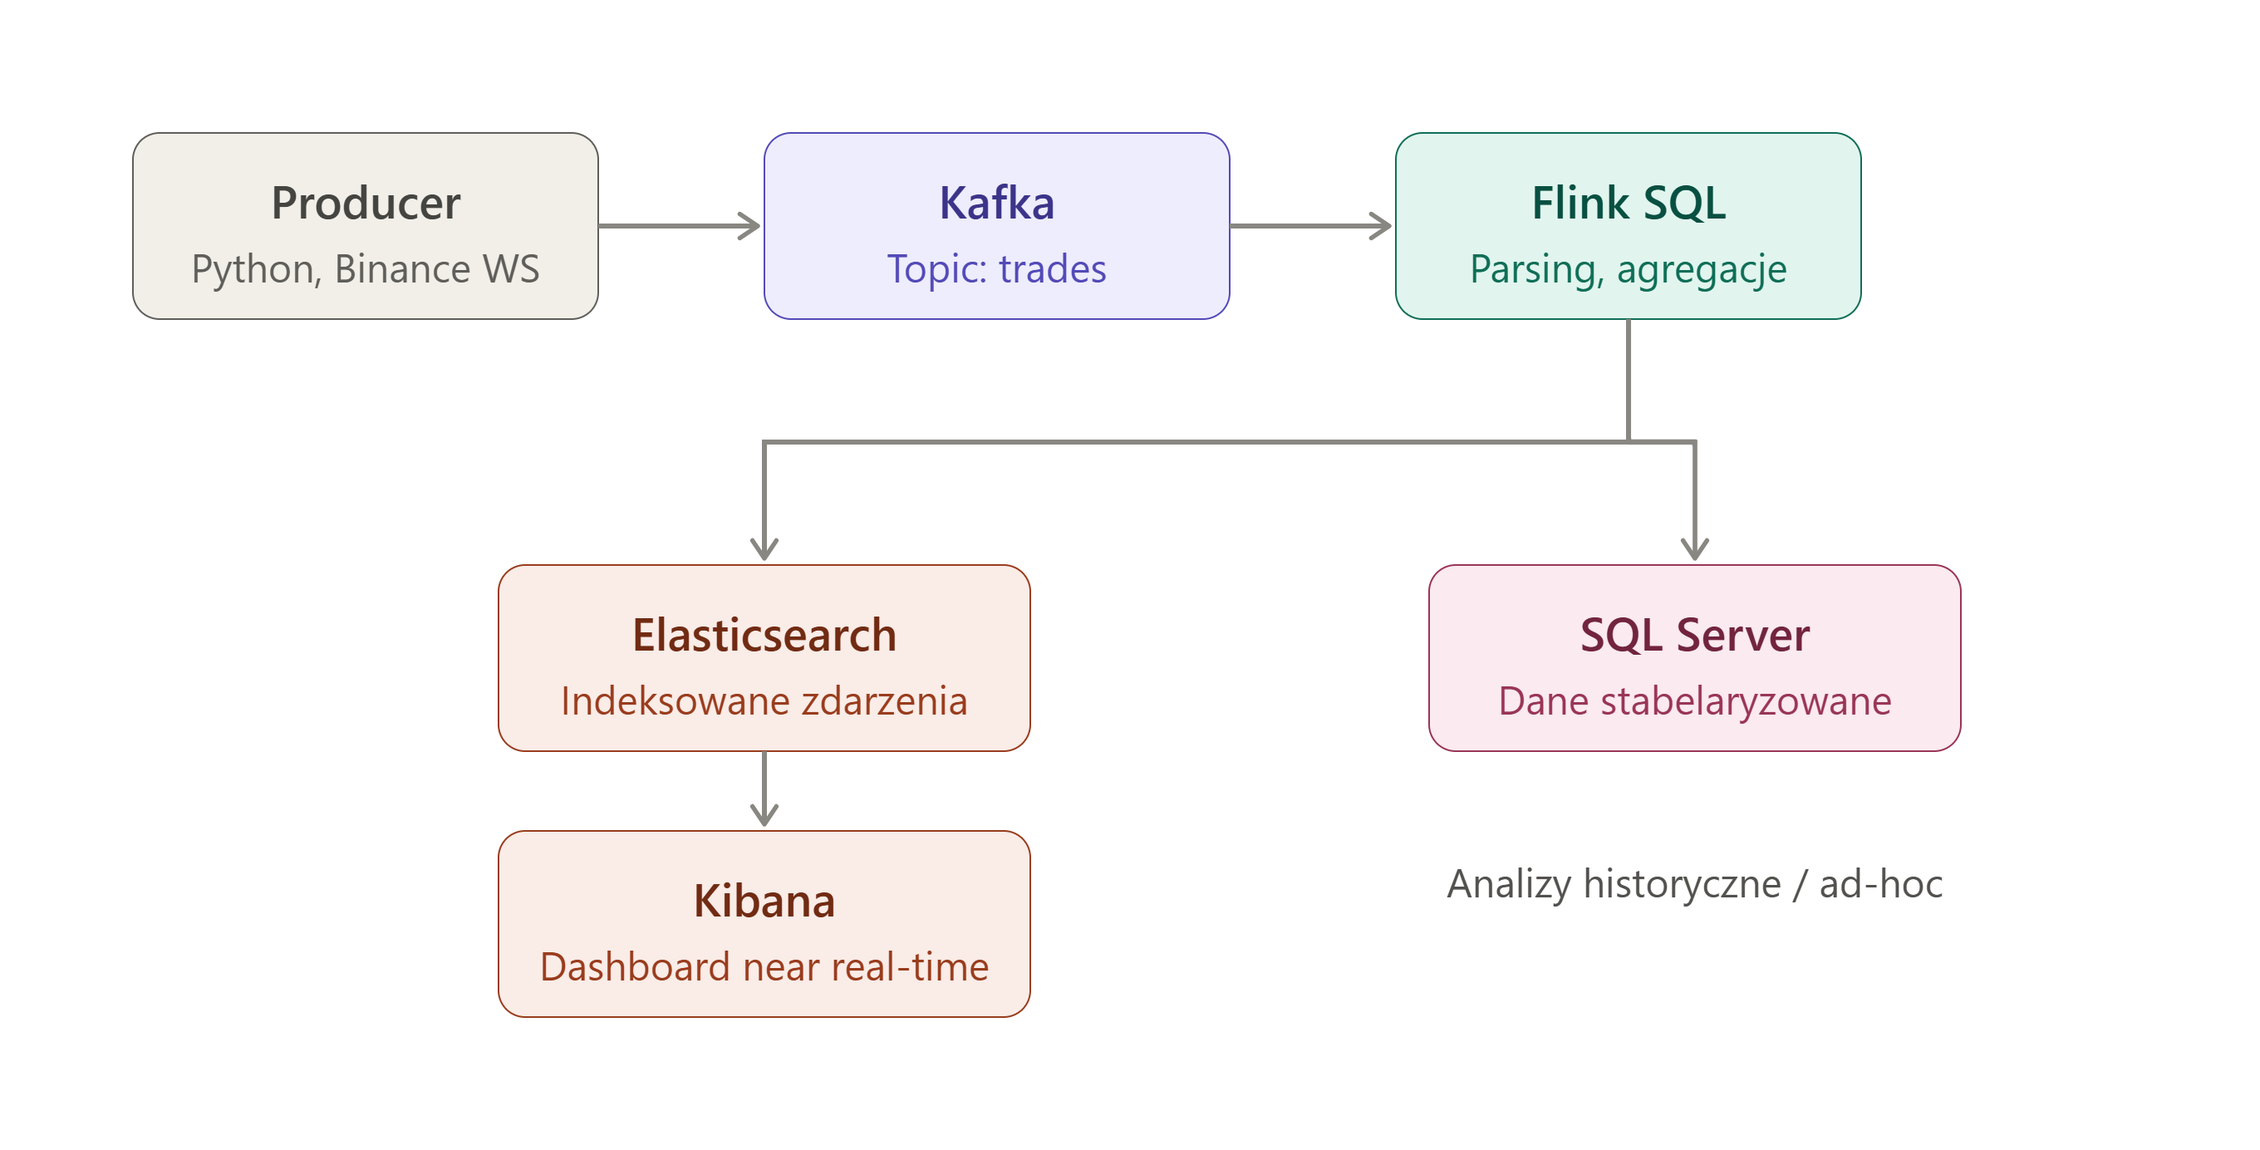
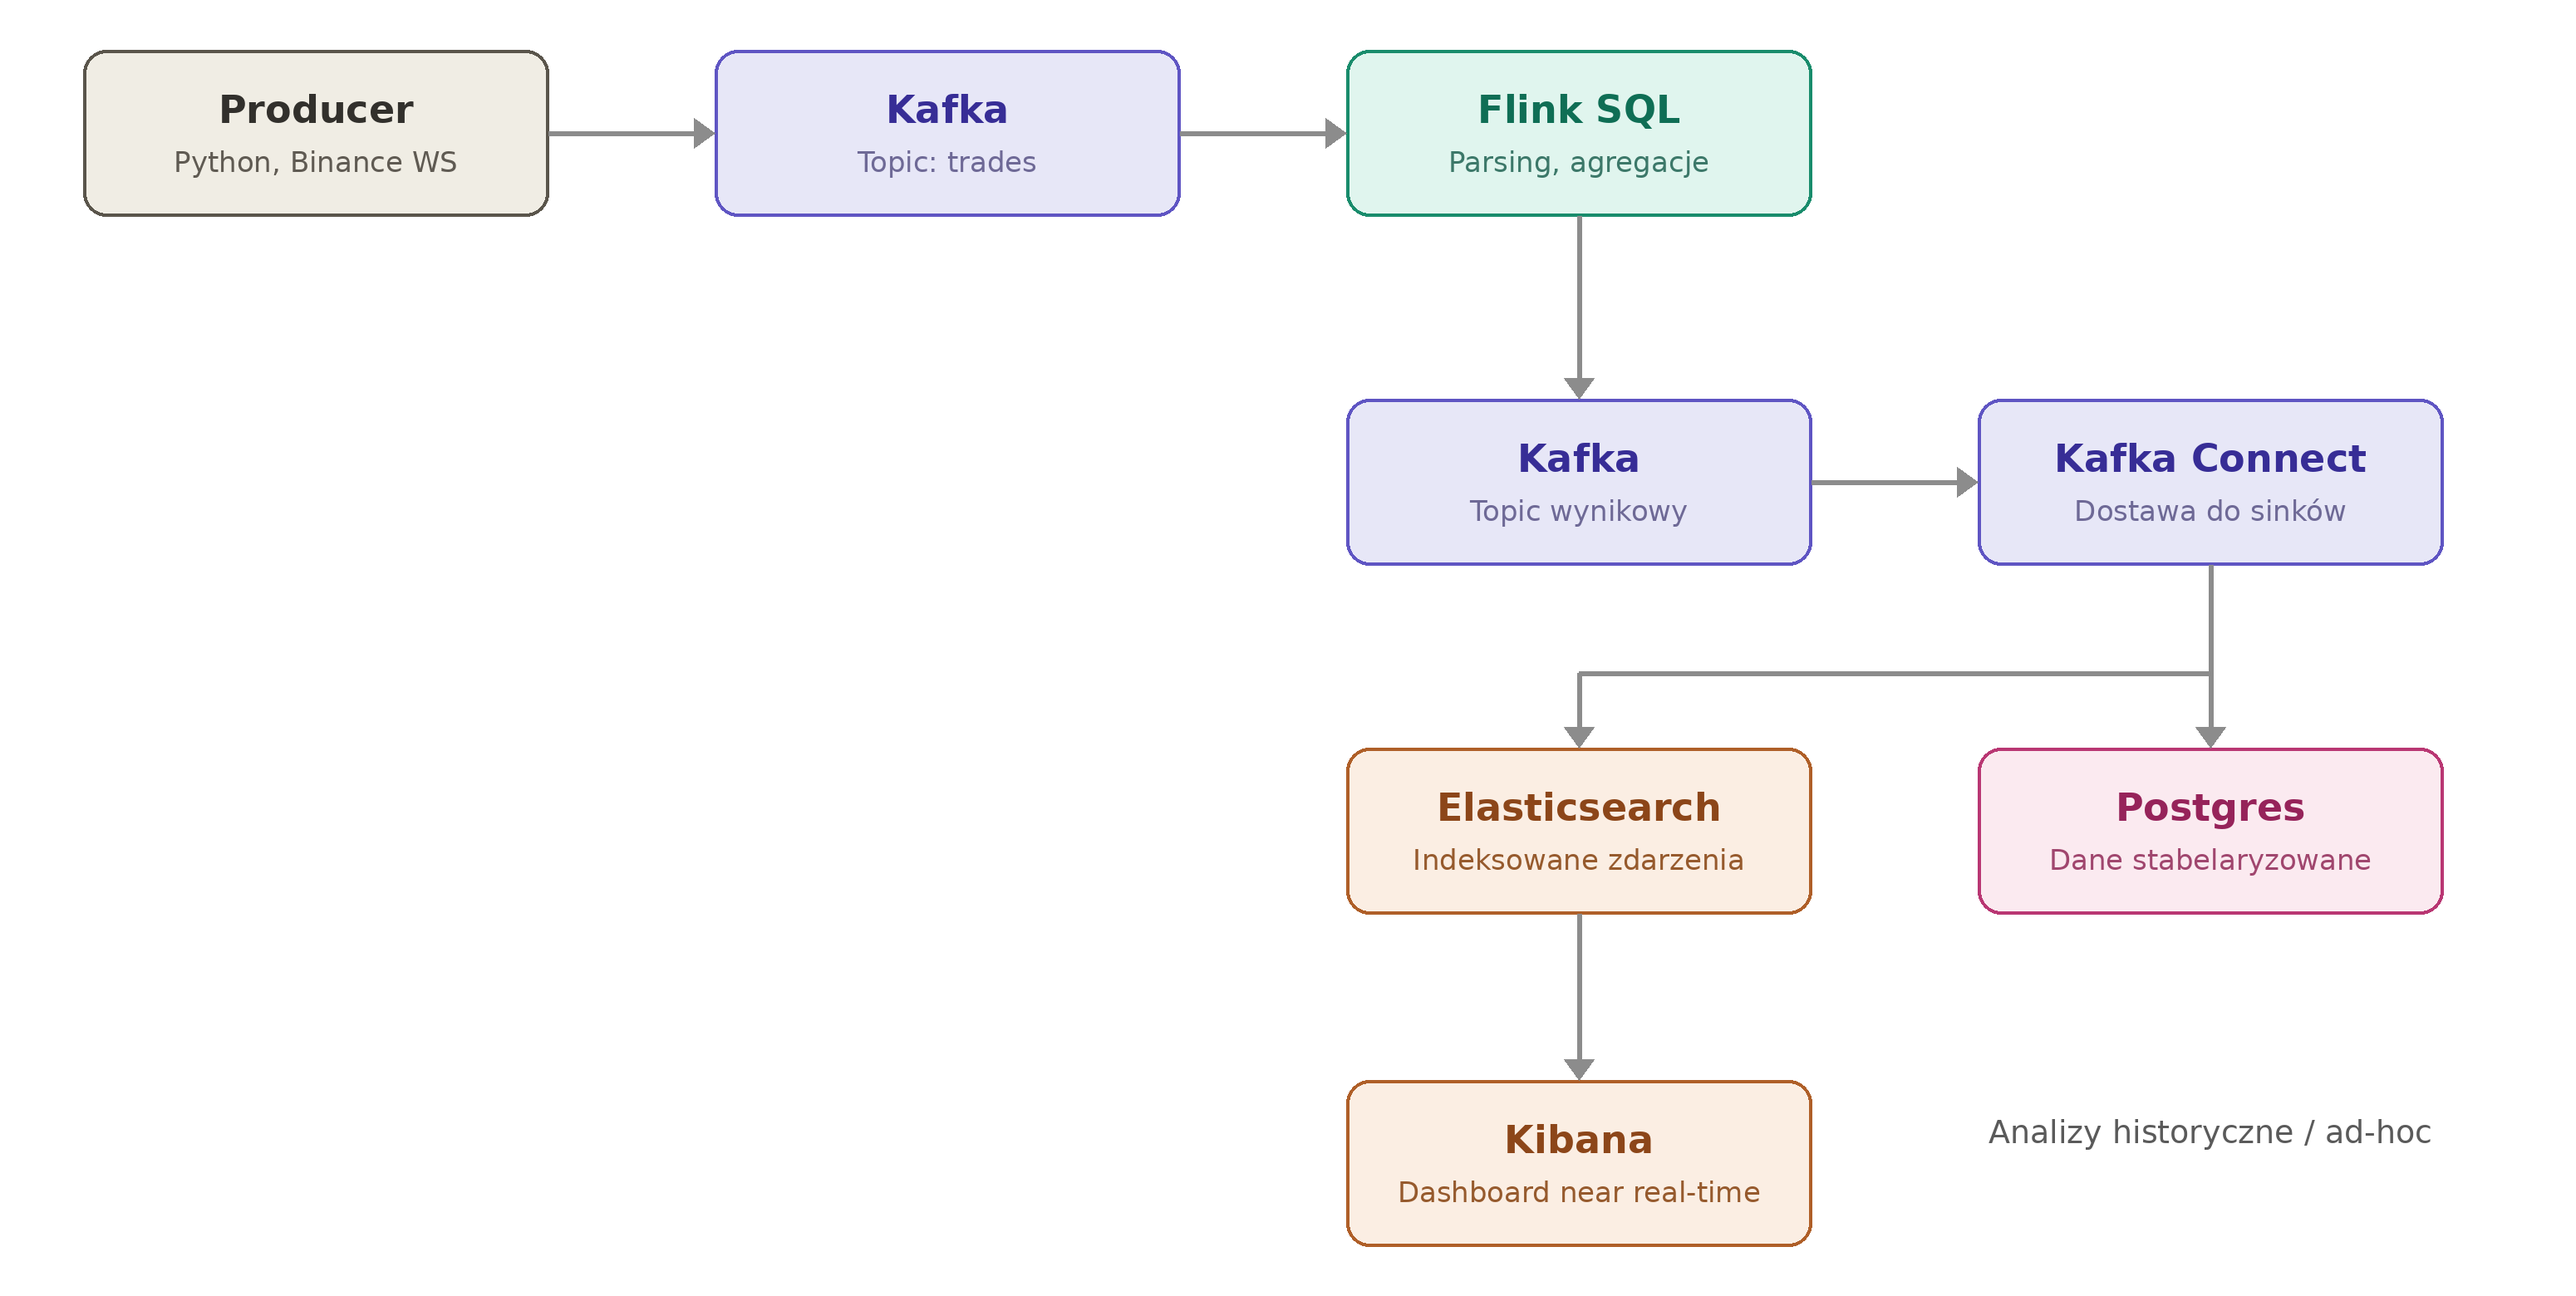
feat: add Jupyter+PyFlink notebook, move Elasticsearch delivery to Kafka Connect
- Add jupyter service (Dockerfile.jupyter, docker-compose.yml) for running
  Flink SQL interactively via a %%sql cell magic against the existing
  session cluster. apache-flink==2.2.1 (matches the cluster), JDK 21 for
  PyFlink's local py4j gateway, Kafka connector jar mirrored into
  pyflink/lib for client-side query planning.
- jupyter_startup/00-flink-setup.py: IPython startup script that connects
  a TableEnvironment to the remote jobmanager and registers %%sql, so
  notebooks need no boilerplate.
- Drop Flink's direct Elasticsearch sink (Dockerfile.flink,
  Dockerfile.jupyter): the official Flink SQL connector is only
  maintained up to Elasticsearch 7.x and fails (NullPointerException
  parsing bulk responses) against 8.x/9.x even via ES's own compatibility
  mode - verified directly, not assumed. Flink now writes results to an
  output Kafka topic; delivery to Elasticsearch/Postgres moves to Kafka
  Connect (not added yet, tracked as follow-up).
- Update README.md, CLAUDE.md and pipeline_architecture.png for this
  delivery architecture, and fix stale "SQL Server" references (stack
  has used Postgres for a while).
- .gitignore: ignore Jupyter's .ipynb_checkpoints and .Trash-* dirs.

Claude-Session: https://claude.ai/code/session_01NoZu199SfThDGf38gu9rRP

diff --git a/jupyter_startup/00-flink-setup.py b/jupyter_startup/00-flink-setup.py
@@ -1,0 +1,13 @@
+from pyflink.table import EnvironmentSettings, TableEnvironment
+from IPython.core.magic import register_cell_magic
+
+table_env = TableEnvironment.create(EnvironmentSettings.in_streaming_mode())
+table_env.get_config().set("execution.target", "remote")
+table_env.get_config().set("jobmanager.rpc.address", "jobmanager")
+table_env.get_config().set("jobmanager.rpc.port", "6123")
+table_env.get_config().set("parallelism.default", "1")
+
+
+@register_cell_magic
+def sql(line, cell):
+    table_env.execute_sql(cell).print()

diff --git a/CLAUDE.md b/CLAUDE.md
@@ -22,10 +22,12 @@ pipeline'u samodzielnie.
 
 ```
 Producer (Python, Binance WebSocket)
-    → Kafka (3 brokery, KRaft)
+    → Kafka (3 brokery, KRaft) — topic wejściowy (surowe trades)
     → Flink SQL (parsing, tabelaryzacja, agregacje)
+    → Kafka — topic wyjściowy (dane przetworzone)
+    → Kafka Connect
         → Elasticsearch → Kibana (dashboard near real-time)
-        → SQL Server / Postgres (dane stabelaryzowane, analizy historyczne)
+        → Postgres (dane stabelaryzowane, analizy historyczne)
 ```
 
 Całość w Docker Compose, jeden plik dla całego stacku.
@@ -45,9 +47,11 @@ Całość w Docker Compose, jeden plik dla całego stacku.
 | Producent | Python | 3.12.7 (przez pyenv) |
 | Message broker | Apache Kafka (KRaft, 3 brokery) | 4.3.1 |
 | UI do Kafki | Kafbat UI | v1.5.0 |
-| Przetwarzanie strumieniowe | Flink SQL (PyFlink) | TBD |
+| Przetwarzanie strumieniowe | Flink SQL (PyFlink) | 2.2.1 |
+| Notebook do Flink SQL | JupyterLab + PyFlink | apache-flink==2.2.1 |
+| Dostawa do sinków | Kafka Connect | TBD |
 | Baza relacyjna | PostgreSQL | 16.10 |
-| Wyszukiwanie / dashboard | Elasticsearch + Kibana | TBD |
+| Wyszukiwanie / dashboard | Elasticsearch + Kibana | 9.5.2 |
 | Konteneryzacja | Docker Compose | — |
 
 ## KRYTYCZNE ZASADY PRACY — PRZECZYTAJ PRZED KAŻDĄ SESJĄ
@@ -98,7 +102,7 @@ Poniższe zasady są nadrzędne wobec zwykłej pomocności:
   `feat: add kafka producer for binance trade stream`
 - **Branch główny:** `main` — powinien zawsze być w stanie działającym
 - **Wolumeny Docker:** named volumes dla danych baz (Postgres, Kafka,
-  SQL Server), nie bind mounty — unika problemów z uprawnieniami plików
+  Elasticsearch), nie bind mounty — unika problemów z uprawnieniami plików
 - **Środowisko Python:** `pyenv local` (wersja projektu) + `venv`
   (izolacja zależności), w tej kolejności
 
@@ -119,6 +123,13 @@ CRYPTO_STREAM_PROJECT/
 - KRaft zamiast Zookeeper (Kafka 4.0+ nie wspiera już Zookeepera)
 - Trzy brokery Kafki (nie jeden, nie więcej) — mikro-klaster do nauki
   replikacji/partycjonowania
-- Fan-out z Flinka do dwóch sinków (Elasticsearch + Postgres/SQL
-  Server), nie osobny konsument z Kafki bezpośrednio do bazy
+- Flink pisze wynik na wyjściowy topic Kafki, nie bezpośrednio do
+  Elasticsearch/Postgresa. Fan-out do obu baz robi Kafka Connect
+  (nie Flink). Powód: oficjalny konektor Elasticsearch dla Flinka
+  jest utrzymywany tylko do wersji ES 7.x, więc każda nowsza wersja
+  ES wymagałaby albo cofania jej do EOL-owanej wersji, albo pisania
+  własnego sinka — Kafka Connect ma aktywnie utrzymywany konektor ES
+  i rozwiązuje to bez kompromisów wersyjnych. Flink SQL dalej robi
+  100% przetwarzania (parsing, agregacje) — zmienia się tylko
+  mechanizm dostawy wyniku.
 - MinIO/data lake świadomie odłożone na "rozszerzenia po MVP"

diff --git a/README.md b/README.md
@@ -29,14 +29,16 @@ Przepływ danych:
    wysyła je na topic Kafki.
 2. **Kafka** — bufor/broker, topic `trades`, oddziela producenta od dalszego przetwarzania.
 3. **Flink SQL** — konsumuje z Kafki, parsuje i tabelaryzuje surowy JSON (rzutowanie typów,
-   ewentualne agregacje w oknach czasowych), a wynik rozdziela do dwóch sinków (fan-out):
+   ewentualne agregacje w oknach czasowych), a wynik zapisuje z powrotem na wyjściowy topic Kafki.
+4. **Kafka Connect** — odbiera z wyjściowego topicu i dostarcza dane do dwóch miejsc (fan-out
+   po stronie dostawy, nie przetwarzania):
    - **Elasticsearch → Kibana** — dane trafiają do Elasticsearch, Kibana buduje na tym
      dashboard near real-time do monitorowania rynku na żywo.
-   - **SQL Server** — dane stabelaryzowane trafiają do trwałego, relacyjnego magazynu,
-     do analiz historycznych i zapytań ad-hoc (SQL, ewentualnie Power BI).
+   - **Postgres** — dane stabelaryzowane trafiają do trwałego, relacyjnego magazynu,
+     do analiz historycznych i zapytań ad-hoc.
 
-Całość uruchomiona w Docker Compose — każdy komponent (Kafka, Flink, Elasticsearch, Kibana,
-SQL Server) jako osobny kontener w jednej sieci.
+Całość uruchomiona w Docker Compose — każdy komponent (Kafka, Flink, Kafka Connect,
+Elasticsearch, Kibana, Postgres) jako osobny kontener w jednej sieci.
 
 ## Źródło danych
 
